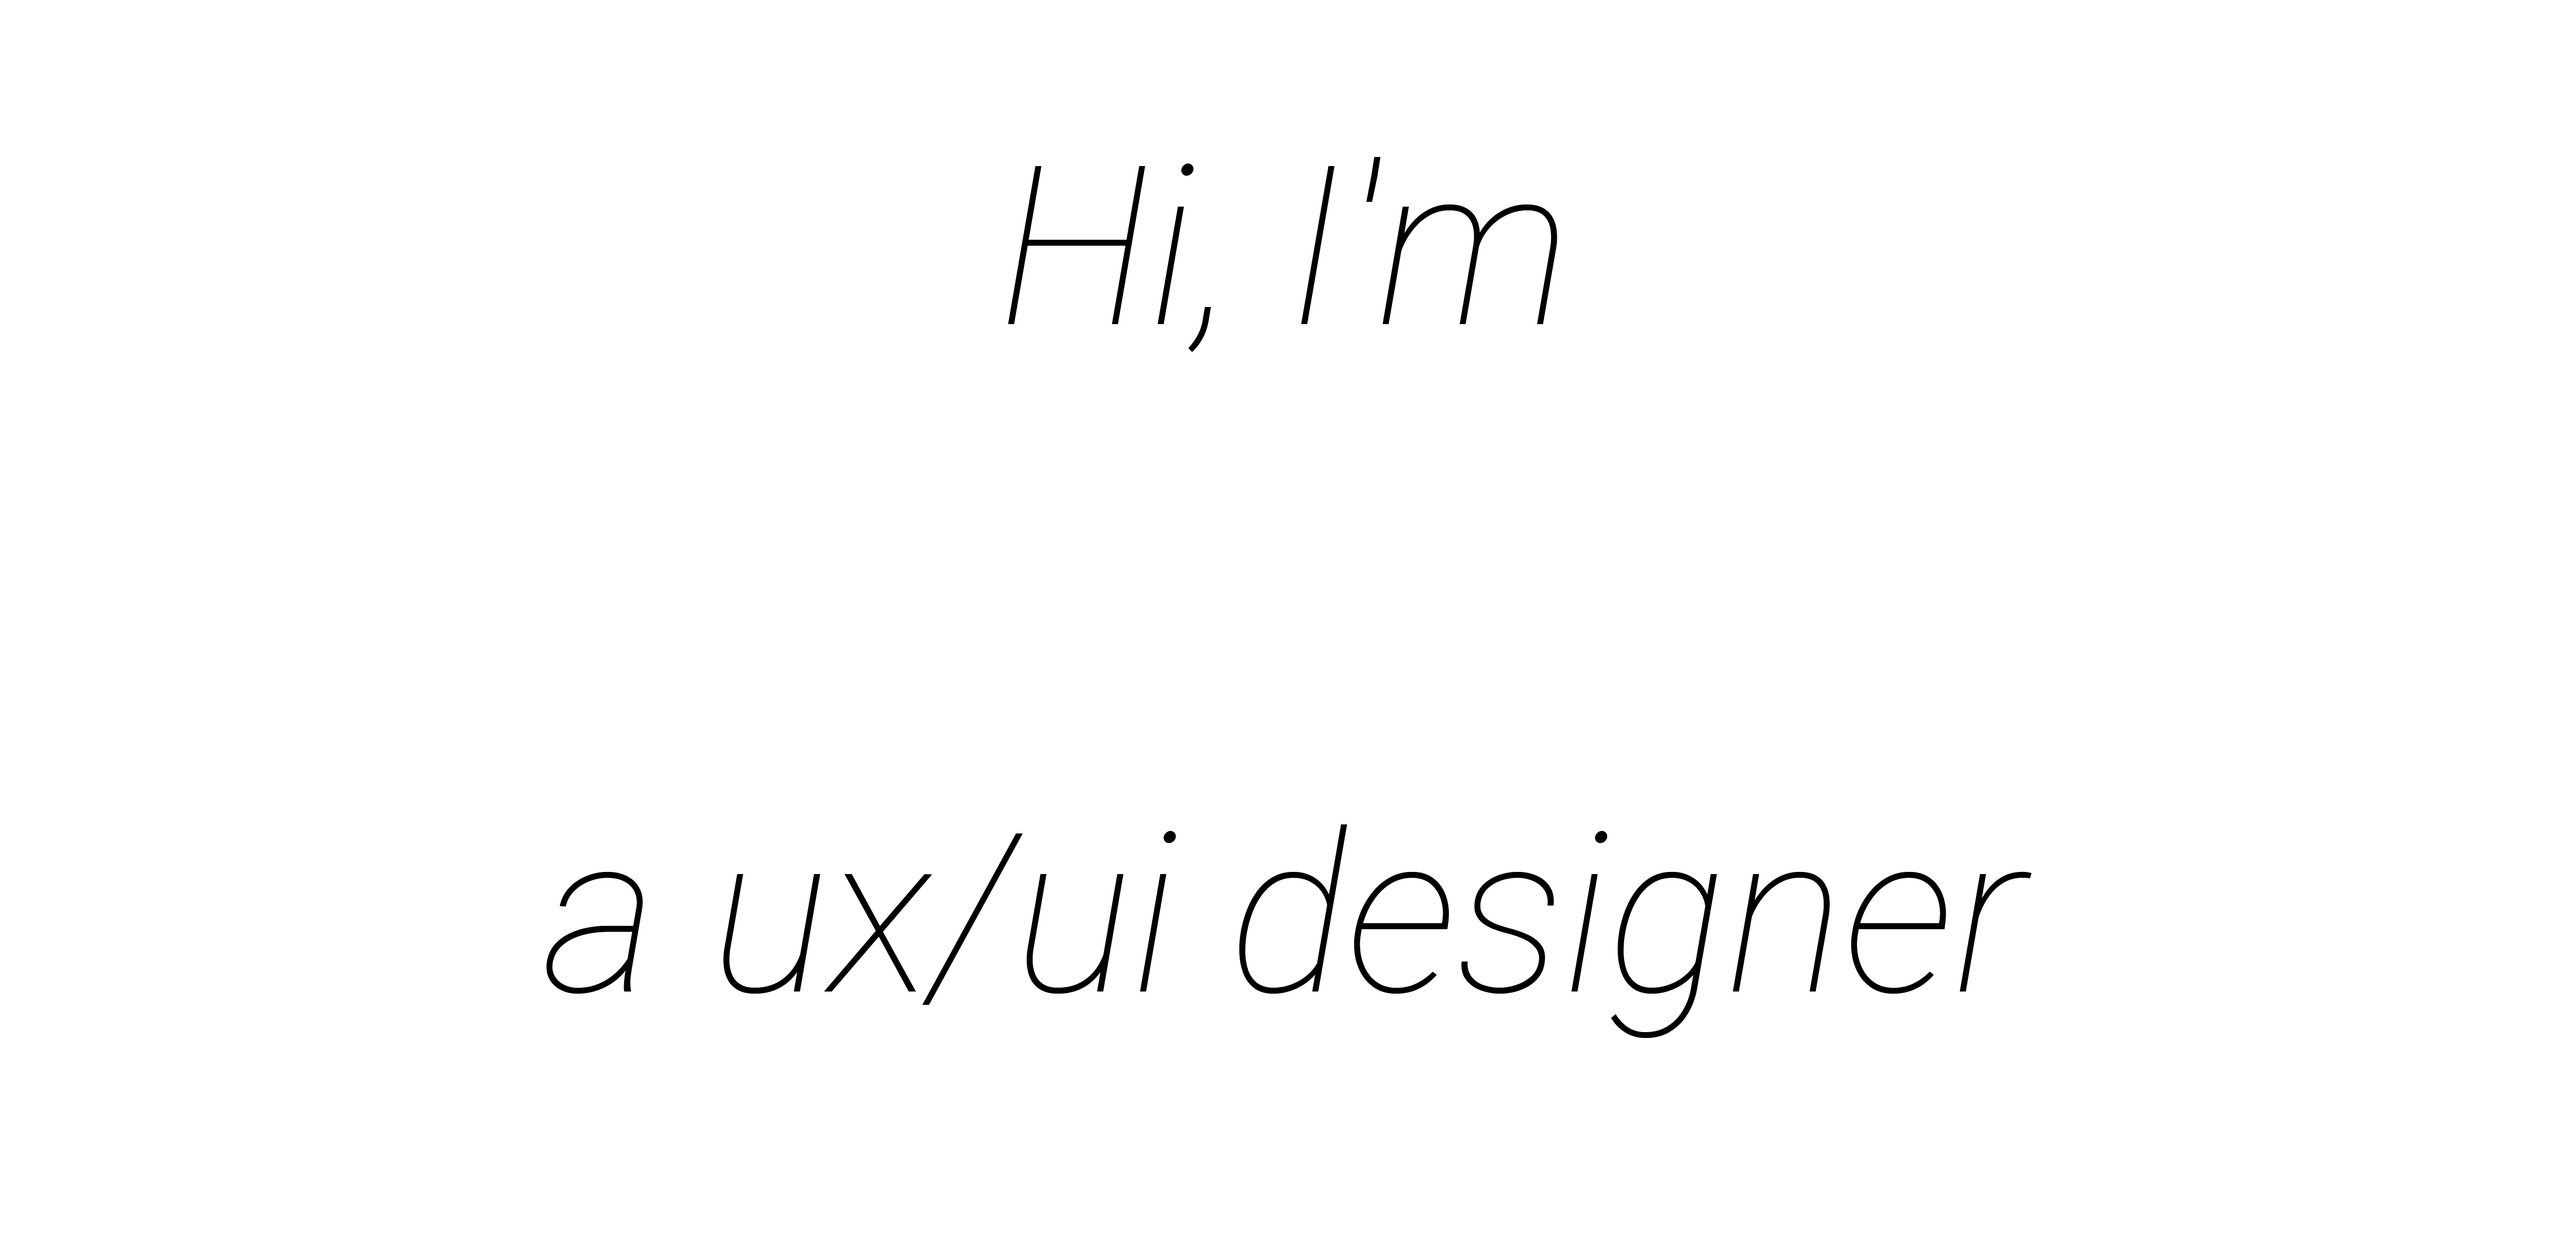
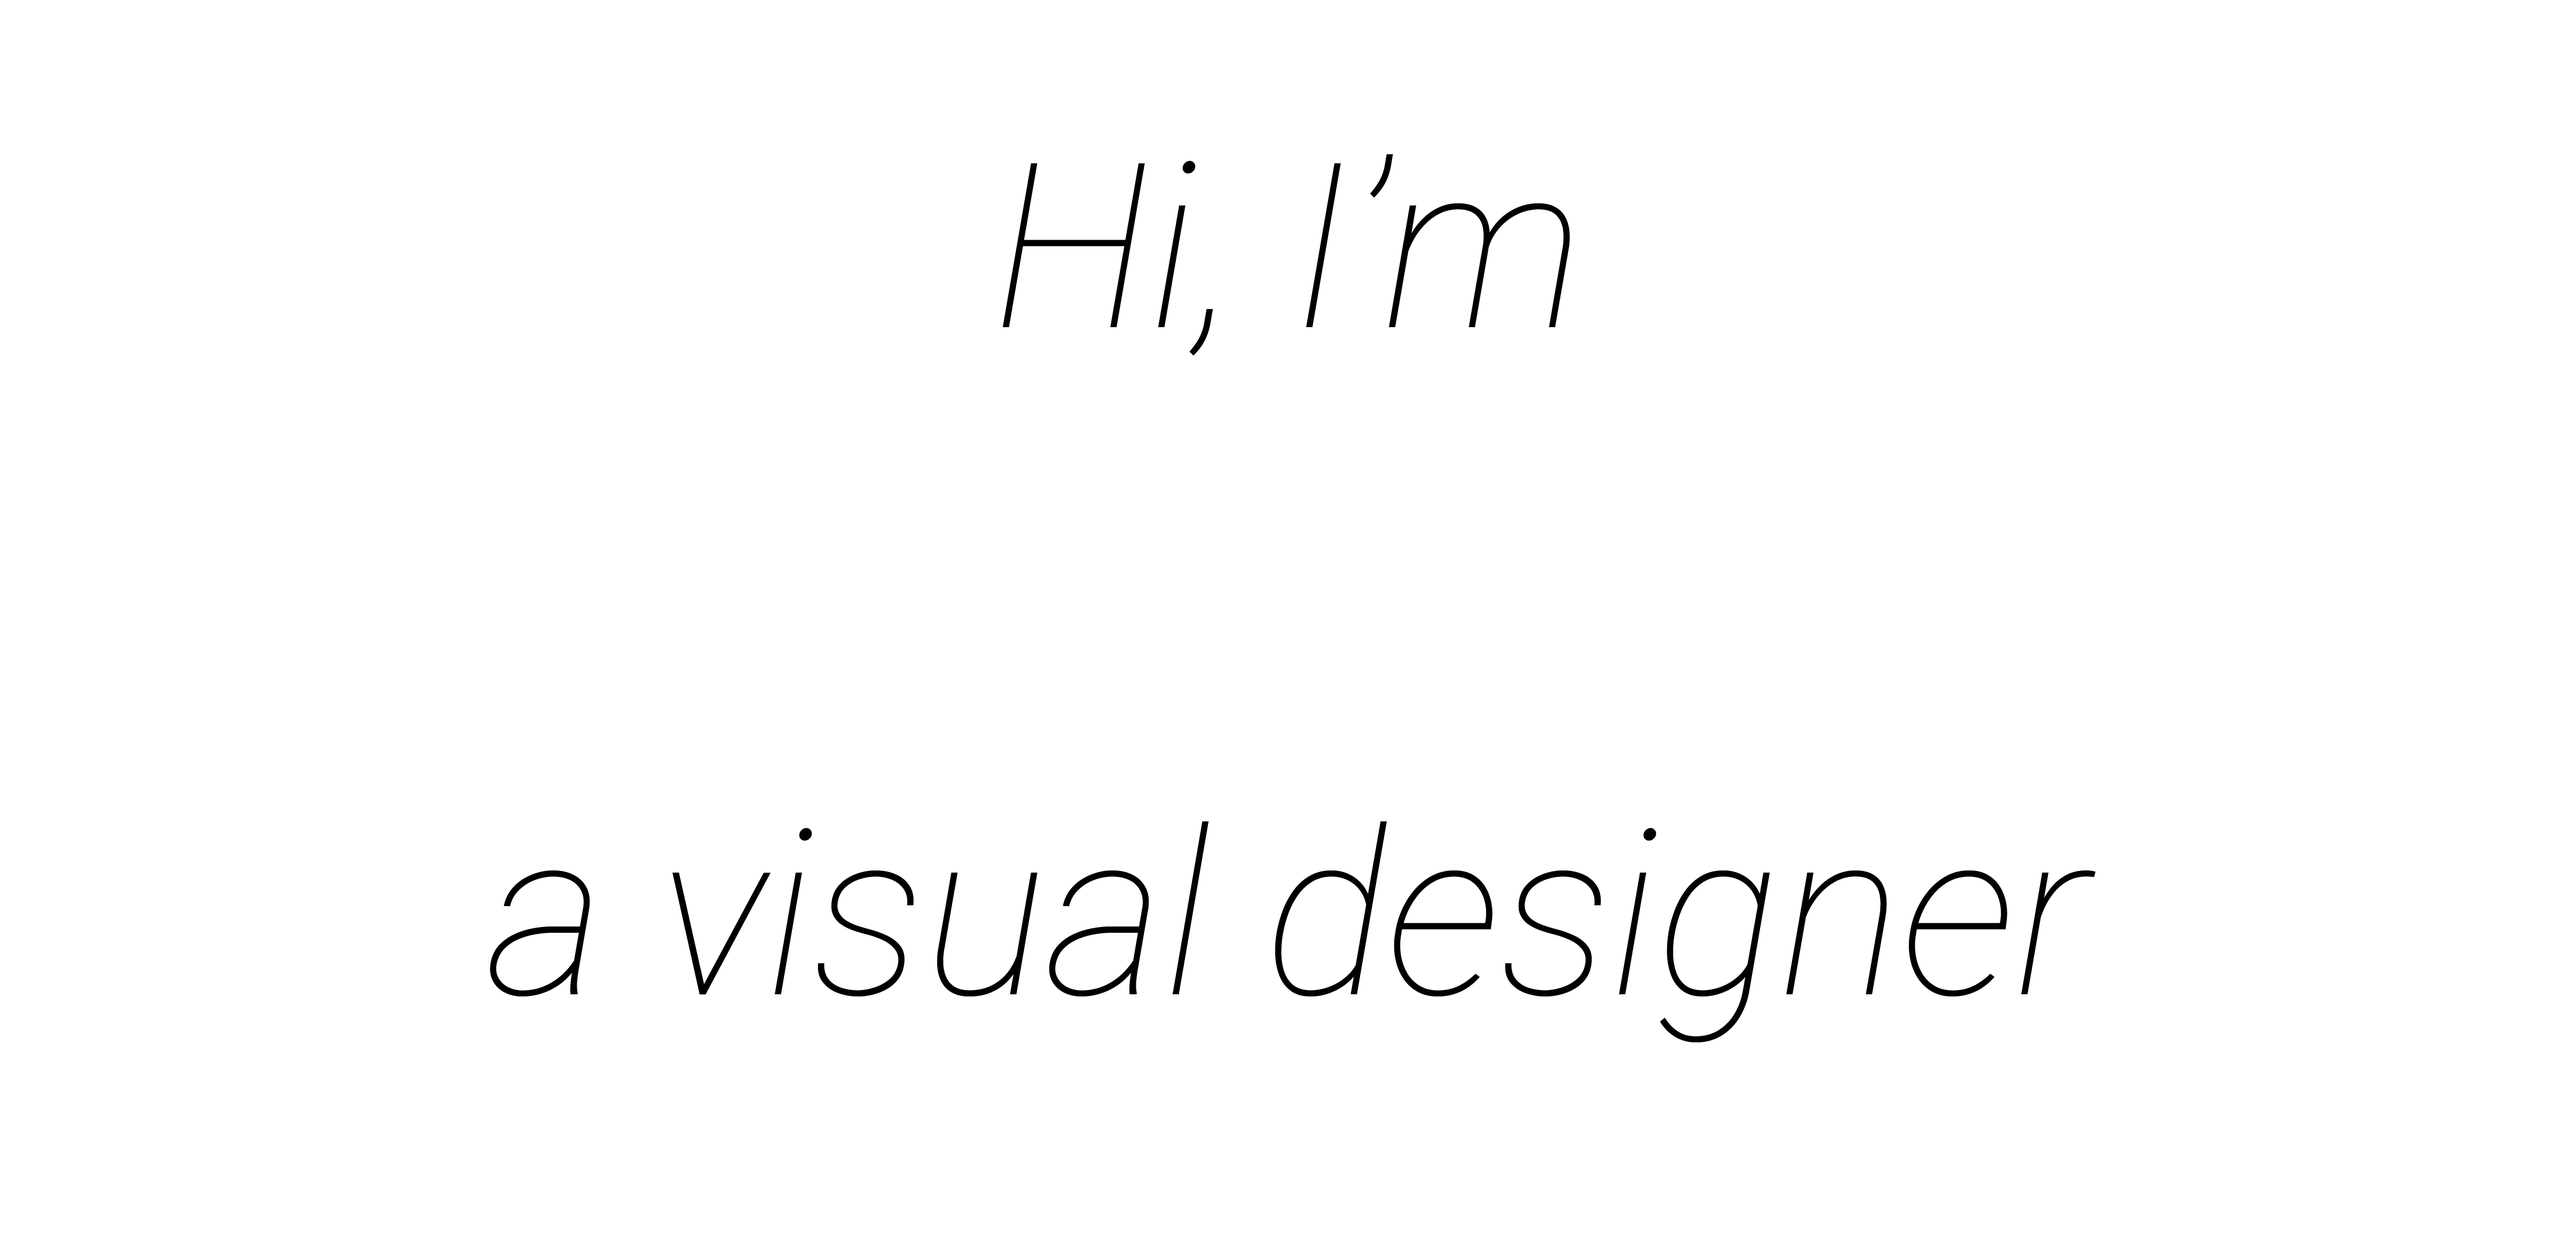
Add preloader and fix hero 3D loading issue

Changed region(s): [[0.1866, 0.6854, 0.8086, 0.8412], [0.4976, 0.1246, 0.622, 0.2493], [0.3732, 0.1246, 0.4043, 0.2493]]

diff --git a/hero-kamil-3d.js b/hero-kamil-3d.js
@@ -121,33 +121,139 @@ function init() {
   const glossyMatObjSuffix = makeLetterMat(OBJ_SUFFIX_COLOR);
   const letterMaterials = [glossyMatKamil, glossyMatObjSuffix];
   let lastLetterColorHex = KAMIL_LETTER_COLOR;
+  const recolorBtn = document.getElementById('heroRecolorBtn');
+  const _colorA = new THREE.Color();
+  const _colorB = new THREE.Color();
+
+  function hexToCss(hex) {
+    return '#' + hex.toString(16).padStart(6, '0');
+  }
+
+  const MIN_RECOLOR_UI_CONTRAST = 4;
+
+  function relativeLuminance(color) {
+    function channel(v) {
+      return v <= 0.03928 ? v / 12.92 : Math.pow((v + 0.055) / 1.055, 2.4);
+    }
+    const r = channel(color.r);
+    const g = channel(color.g);
+    const b = channel(color.b);
+    return 0.2126 * r + 0.7152 * g + 0.0722 * b;
+  }
+
+  function contrastOnWhite(hex) {
+    _colorA.setHex(hex);
+    const lum = relativeLuminance(_colorA);
+    return 1.05 / (lum + 0.05);
+  }
+
+  /** Button text/border only: darken light Kamil picks so they stay readable on white. */
+  function recolorUiHex(hex) {
+    if (contrastOnWhite(hex) >= MIN_RECOLOR_UI_CONTRAST) return hex;
+    _colorA.setHex(hex);
+    const hsl = { h: 0, s: 0, l: 0 };
+    _colorA.getHSL(hsl);
+    for (var i = 0; i < 14; i++) {
+      hsl.l = Math.max(0.2, hsl.l * 0.84);
+      hsl.s = Math.min(1, hsl.s + 0.03);
+      _colorB.setHSL(hsl.h, hsl.s, hsl.l);
+      const candidate = _colorB.getHex();
+      if (contrastOnWhite(candidate) >= MIN_RECOLOR_UI_CONTRAST) return candidate;
+    }
+    return _colorB.getHex();
+  }
+
+  function syncRecolorBtnColor(hex) {
+    const uiCss = hexToCss(recolorUiHex(hex));
+    document.documentElement.style.setProperty('--hero-recolor-ui', uiCss);
+    if (recolorBtn) {
+      recolorBtn.style.setProperty('color', uiCss);
+      recolorBtn.style.setProperty('border-color', uiCss);
+    }
+  }
 
   function applyLetterColor(hex) {
     lastLetterColorHex = hex;
+    rememberLetterHex(hex);
     for (var i = 0; i < letterMaterials.length; i++) {
       var mat = letterMaterials[i];
       mat.color.setHex(hex);
       mat.emissive.setHex(hex);
     }
+    syncRecolorBtnColor(hex);
+  }
+
+  syncRecolorBtnColor(KAMIL_LETTER_COLOR);
+
+  const RECENT_COLOR_MEMORY = 4;
+  const MIN_HUE_SEPARATION = 0.12;
+  const MIN_RGB_SEPARATION_SQ = 0.04;
+  const GOLDEN_HUE_STEP = 0.6180339887;
+  const POP_SATURATION = 1;
+  const POP_LIGHTNESS = 0.5;
+  const recentLetterHexes = [KAMIL_LETTER_COLOR];
+
+  function rememberLetterHex(hex) {
+    recentLetterHexes.push(hex);
+    if (recentLetterHexes.length > RECENT_COLOR_MEMORY) {
+      recentLetterHexes.shift();
+    }
   }
 
   function randomVibrantHex() {
-    var color = new THREE.Color();
-    color.setHSL(Math.random(), 1, 0.5);
-    return color.getHex();
+    _colorA.setHSL(Math.random(), POP_SATURATION, POP_LIGHTNESS);
+    return _colorA.getHex();
+  }
+
+  function isDistinctFrom(nextHex, otherHex) {
+    if (nextHex === otherHex) return false;
+    _colorA.setHex(otherHex);
+    _colorB.setHex(nextHex);
+    const dr = _colorA.r - _colorB.r;
+    const dg = _colorA.g - _colorB.g;
+    const db = _colorA.b - _colorB.b;
+    if (dr * dr + dg * dg + db * db < MIN_RGB_SEPARATION_SQ) return false;
+    const hslA = { h: 0, s: 0, l: 0 };
+    const hslB = { h: 0, s: 0, l: 0 };
+    _colorA.getHSL(hslA);
+    _colorB.getHSL(hslB);
+    let hueDiff = Math.abs(hslA.h - hslB.h);
+    if (hueDiff > 0.5) hueDiff = 1 - hueDiff;
+    return hueDiff >= MIN_HUE_SEPARATION;
+  }
+
+  function isDistinctFromRecent(hex) {
+    for (var i = 0; i < recentLetterHexes.length; i++) {
+      if (!isDistinctFrom(hex, recentLetterHexes[i])) return false;
+    }
+    return true;
+  }
+
+  function randomDistinctVibrantHex() {
+    for (var i = 0; i < 48; i++) {
+      const hex = randomVibrantHex();
+      if (isDistinctFromRecent(hex)) return hex;
+    }
+    _colorA.setHex(lastLetterColorHex);
+    const hsl = { h: 0, s: 0, l: 0 };
+    _colorA.getHSL(hsl);
+    hsl.h = (hsl.h + GOLDEN_HUE_STEP + Math.random() * 0.1) % 1;
+    hsl.s = POP_SATURATION;
+    hsl.l = POP_LIGHTNESS;
+    _colorB.setHSL(hsl.h, hsl.s, hsl.l);
+    var hex = _colorB.getHex();
+    if (!isDistinctFromRecent(hex)) {
+      hsl.h = (hsl.h + 0.5) % 1;
+      _colorB.setHSL(hsl.h, hsl.s, hsl.l);
+      hex = _colorB.getHex();
+    }
+    return hex;
   }
 
   function pickRandomLetterColor() {
-    var hex = randomVibrantHex();
-    var tries = 0;
-    while (hex === lastLetterColorHex && tries < 8) {
-      hex = randomVibrantHex();
-      tries++;
-    }
-    applyLetterColor(hex);
+    applyLetterColor(randomDistinctVibrantHex());
   }
 
-  var recolorBtn = document.getElementById('heroRecolorBtn');
   if (recolorBtn) {
     recolorBtn.addEventListener('click', pickRandomLetterColor);
   }

diff --git a/index.html b/index.html
@@ -388,6 +388,10 @@
       overflow: visible;
     }
 
+    :root {
+      --hero-recolor-ui: #ff0edc;
+    }
+
     .hero-3d {
       /* Content width (layer1 + visual match to image_18); window below is 100vw to avoid clip */
       --hero-band-vw: 83.3vw;
@@ -467,9 +471,13 @@
       font-weight: 400;
       line-height: 1.35;
       letter-spacing: normal;
-      color: #000000;
-      background: #ffffff;
-      border: 1px solid #000000;
+      color: var(--hero-recolor-ui, #ff0edc);
+      background-color: #ffffff;
+      border: 1px solid var(--hero-recolor-ui, #ff0edc);
+      outline: none;
+      box-shadow: none;
+      -webkit-appearance: none;
+      appearance: none;
       border-radius: 9999px;
       cursor: pointer;
       box-sizing: border-box;
@@ -477,7 +485,9 @@
       visibility: visible;
       transition: opacity var(--hero-recolor-fade-ms) cubic-bezier(0.25, 0.1, 0.25, 1),
         transform var(--hero-recolor-fade-ms) cubic-bezier(0.25, 0.1, 0.25, 1),
-        visibility 0s linear 0s;
+        visibility 0s linear 0s,
+        color 0.35s ease,
+        border-color 0.35s ease;
       -webkit-font-smoothing: antialiased;
       opacity: 0;
       animation: landingPinkFade 1.2s cubic-bezier(0.22, 1, 0.36, 1) 0.45s forwards;
@@ -500,7 +510,7 @@
     }
 
     .hero-recolor-btn:focus-visible {
-      outline: 2px solid #000000;
+      outline: 2px solid var(--hero-recolor-ui, #ff0edc);
       outline-offset: 2px;
     }
 
@@ -910,7 +920,7 @@
               <div class="hero-3d__base-wrap">
                 <img
                   class="hero-3d__base"
-                  src="/images/layer1.png"
+                  src="/images/layer1.png?v=20260603"
                   alt="Hi I'm Kamil — a ux/ui designer"
                   width="1200"
                   height="400"

diff --git a/typography.css b/typography.css
@@ -69,7 +69,6 @@ html {
 /* —— L3: Nav, contact label, project names — Roboto Regular 16px, sentence case from markup —— */
 nav,
 nav .brand,
-.hero-recolor-btn,
 .site-contact__label,
 .project-card__caption-name,
 .project-card__caption-sep {
